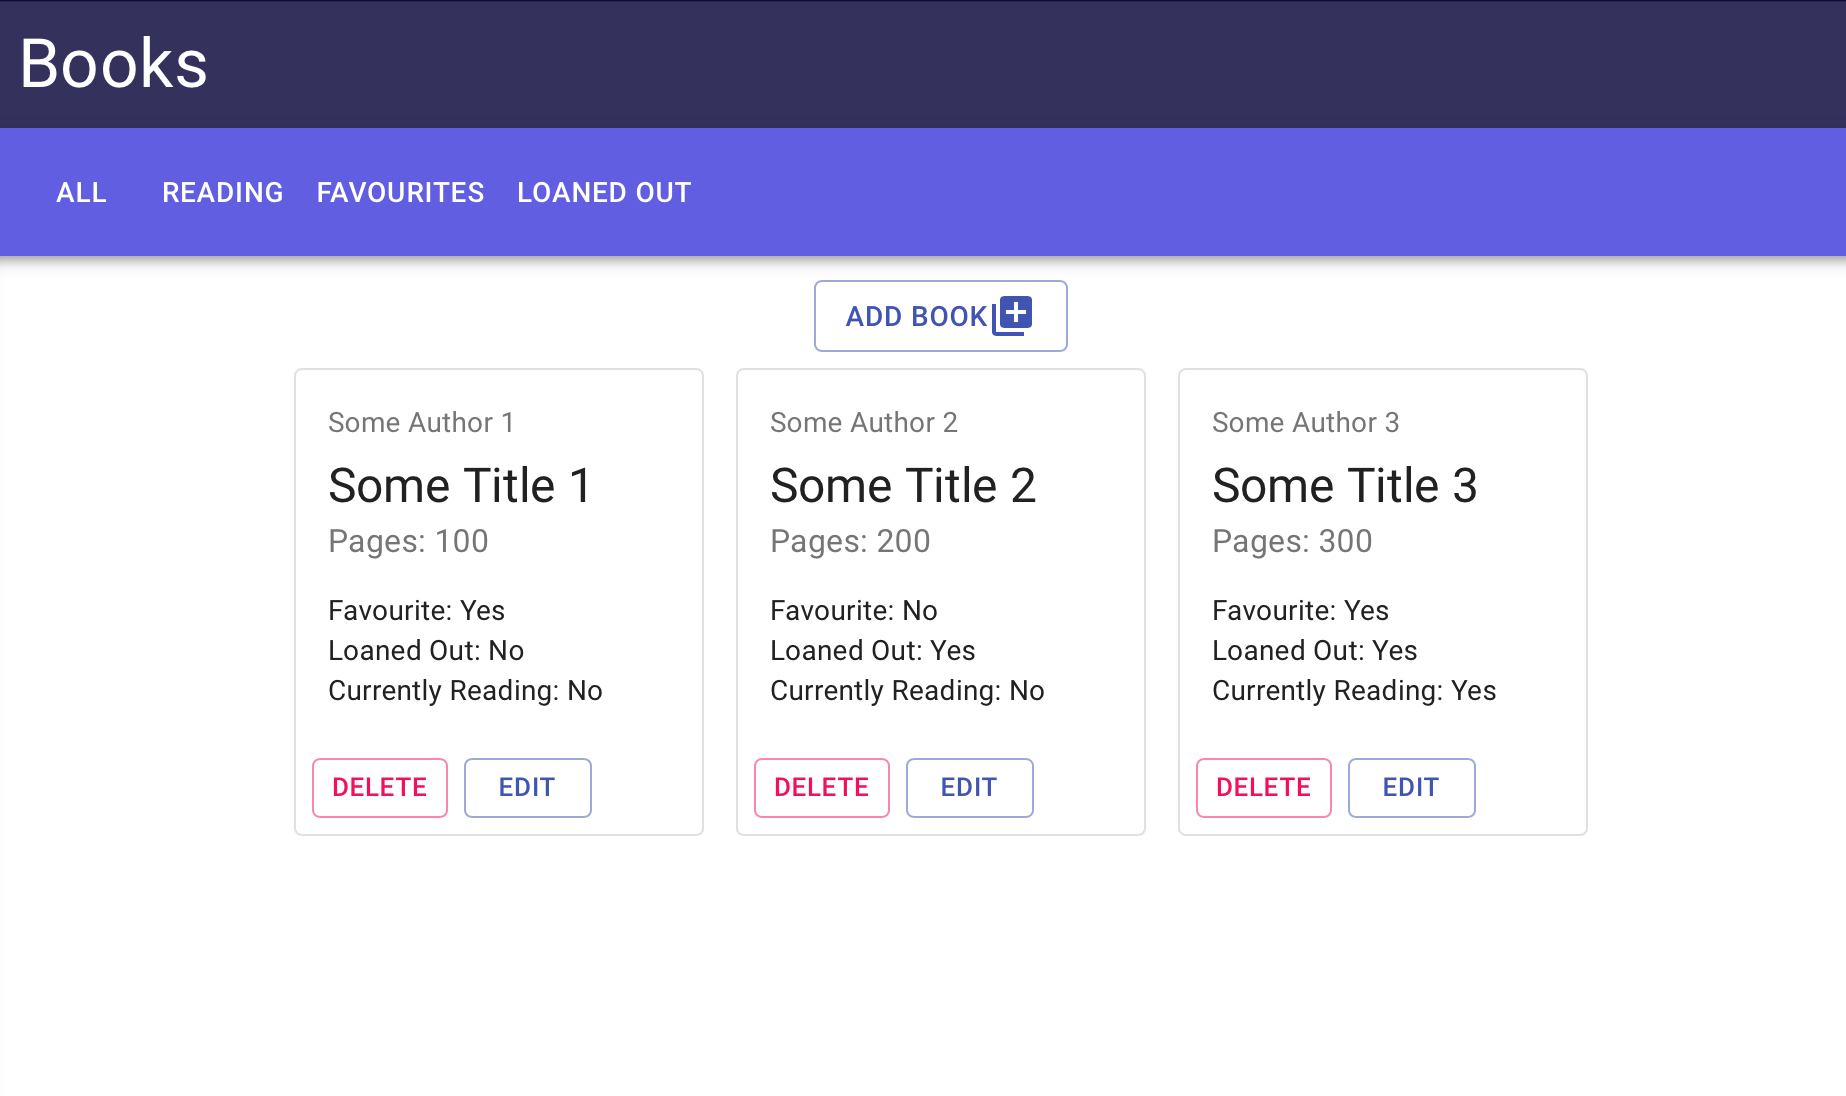
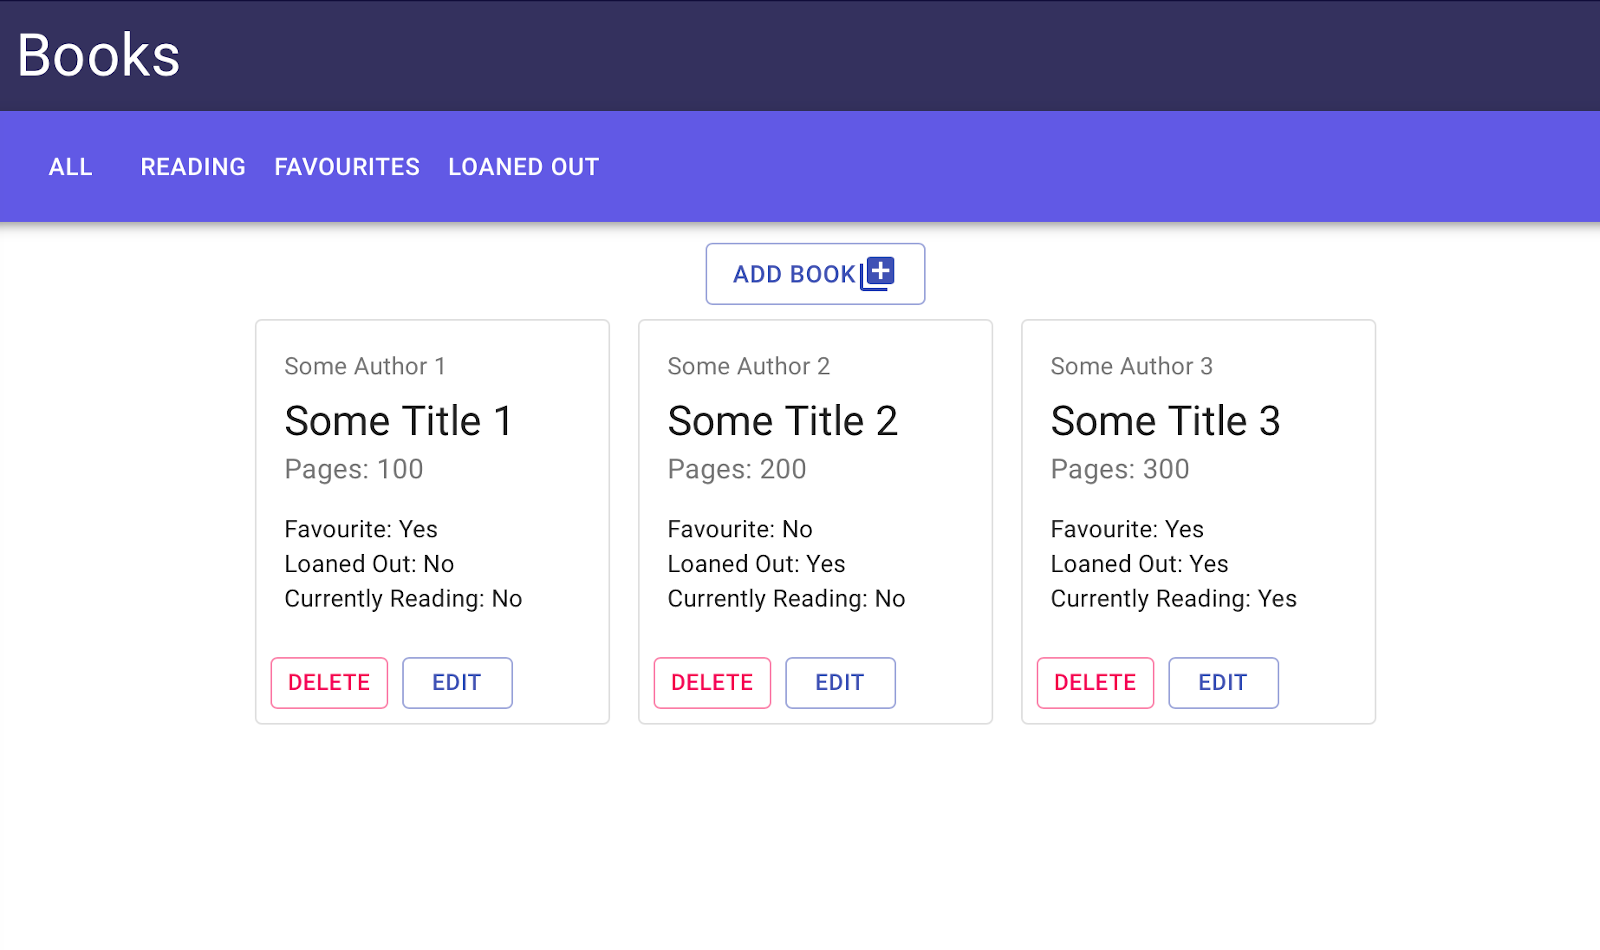
Replace images to equalize aspect ratios.

diff --git a/components/ProjectCard.tsx b/components/ProjectCard.tsx
@@ -13,8 +13,8 @@ export default function ProjectCard(props: Project) {
           className="rounded-lg"
           src={imgSource}
           alt="Preview of the project"
-          width={650}
-          height={390}
+          width={1600}
+          height={950}
           layout="intrinsic"
         />
       </ProjectFrame>
